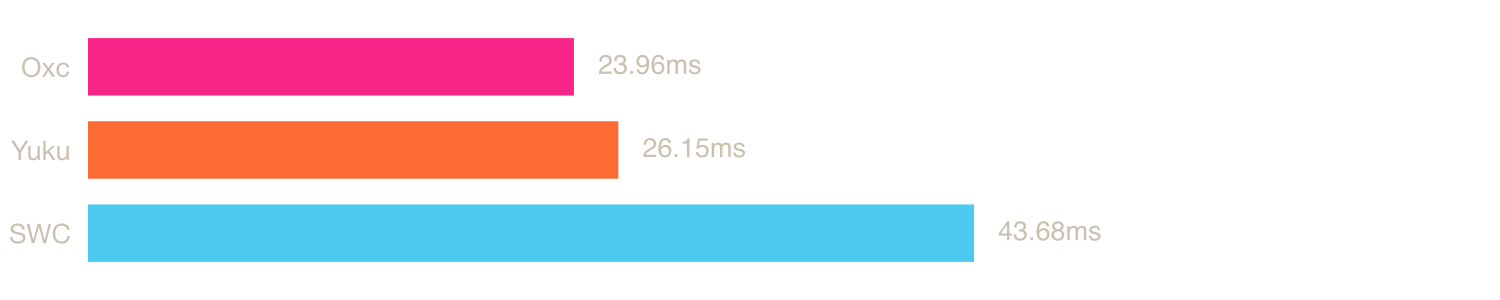
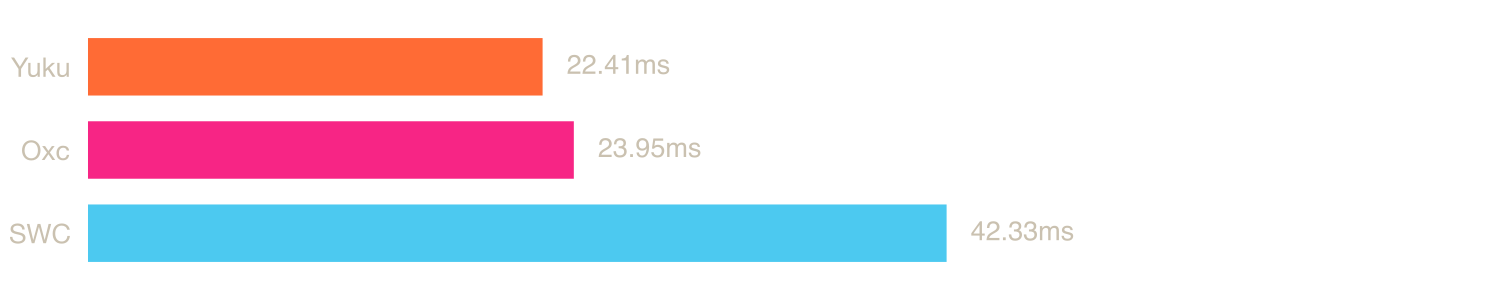
update

Changed region(s): [[0.0, 0.39, 0.4907, 0.6], [0.0, 0.12, 0.4907, 0.33], [0.6133, 0.66, 0.736, 0.87]]

diff --git a/README.md b/README.md
@@ -41,9 +41,9 @@ An extensible Rust-based platform for compiling and bundling JavaScript and Type
 
 | Parser | Median | Min | p99 |
 |--------|--------|-----|-----|
-| Oxc | 23.96 ms | 23.83 ms | 47.12 ms |
-| Yuku | 26.15 ms | 25.71 ms | 32.27 ms |
-| SWC | 43.68 ms | 41.20 ms | 72.49 ms |
+| Yuku | 22.41 ms | 21.91 ms | 46.32 ms |
+| Oxc | 23.95 ms | 23.85 ms | 25.92 ms |
+| SWC | 42.33 ms | 41.21 ms | 64.93 ms |
 
 ### [calcom.tsx](https://raw.githubusercontent.com/yuku-toolchain/parser-benchmark-files/refs/heads/main/calcom.tsx)
 
@@ -53,9 +53,9 @@ An extensible Rust-based platform for compiling and bundling JavaScript and Type
 
 | Parser | Median | Min | p99 |
 |--------|--------|-----|-----|
-| Oxc | 3.58 ms | 3.54 ms | 3.78 ms |
-| Yuku | 3.97 ms | 3.91 ms | 4.41 ms |
-| SWC | 6.34 ms | 6.18 ms | 6.88 ms |
+| Yuku | 3.50 ms | 3.45 ms | 3.73 ms |
+| Oxc | 3.66 ms | 3.53 ms | 9.02 ms |
+| SWC | 6.28 ms | 6.10 ms | 6.89 ms |
 
 ### [react.js](https://raw.githubusercontent.com/yuku-toolchain/parser-benchmark-files/refs/heads/main/react.js)
 
@@ -65,9 +65,9 @@ An extensible Rust-based platform for compiling and bundling JavaScript and Type
 
 | Parser | Median | Min | p99 |
 |--------|--------|-----|-----|
-| Oxc | 0.16 ms | 0.16 ms | 0.21 ms |
-| Yuku | 0.17 ms | 0.17 ms | 0.18 ms |
-| SWC | 0.28 ms | 0.27 ms | 0.31 ms |
+| Yuku | 0.14 ms | 0.14 ms | 0.15 ms |
+| Oxc | 0.16 ms | 0.16 ms | 0.18 ms |
+| SWC | 0.28 ms | 0.27 ms | 0.30 ms |
 
 ## Semantic
 
@@ -83,8 +83,8 @@ The benchmarks below measure parsing followed by this additional pass, which bui
 
 | Parser | Median | Min | p99 |
 |--------|--------|-----|-----|
-| Yuku + Semantic | 43.85 ms | 43.10 ms | 83.55 ms |
-| Oxc + Semantic | 54.13 ms | 53.17 ms | 73.92 ms |
+| Yuku + Semantic | 39.41 ms | 39.04 ms | 43.03 ms |
+| Oxc + Semantic | 54.44 ms | 52.99 ms | 79.01 ms |
 
 ### [calcom.tsx](https://raw.githubusercontent.com/yuku-toolchain/parser-benchmark-files/refs/heads/main/calcom.tsx)
 
@@ -92,8 +92,8 @@ The benchmarks below measure parsing followed by this additional pass, which bui
 
 | Parser | Median | Min | p99 |
 |--------|--------|-----|-----|
-| Oxc + Semantic | 7.09 ms | 7.00 ms | 13.57 ms |
-| Yuku + Semantic | 8.07 ms | 7.98 ms | 8.50 ms |
+| Oxc + Semantic | 7.06 ms | 6.96 ms | 7.65 ms |
+| Yuku + Semantic | 7.58 ms | 7.51 ms | 11.13 ms |
 
 ### [react.js](https://raw.githubusercontent.com/yuku-toolchain/parser-benchmark-files/refs/heads/main/react.js)
 
@@ -101,8 +101,8 @@ The benchmarks below measure parsing followed by this additional pass, which bui
 
 | Parser | Median | Min | p99 |
 |--------|--------|-----|-----|
-| Yuku + Semantic | 0.30 ms | 0.30 ms | 0.31 ms |
-| Oxc + Semantic | 0.34 ms | 0.34 ms | 0.37 ms |
+| Yuku + Semantic | 0.27 ms | 0.27 ms | 0.29 ms |
+| Oxc + Semantic | 0.34 ms | 0.34 ms | 0.36 ms |
 
 ## Run Benchmarks
 
